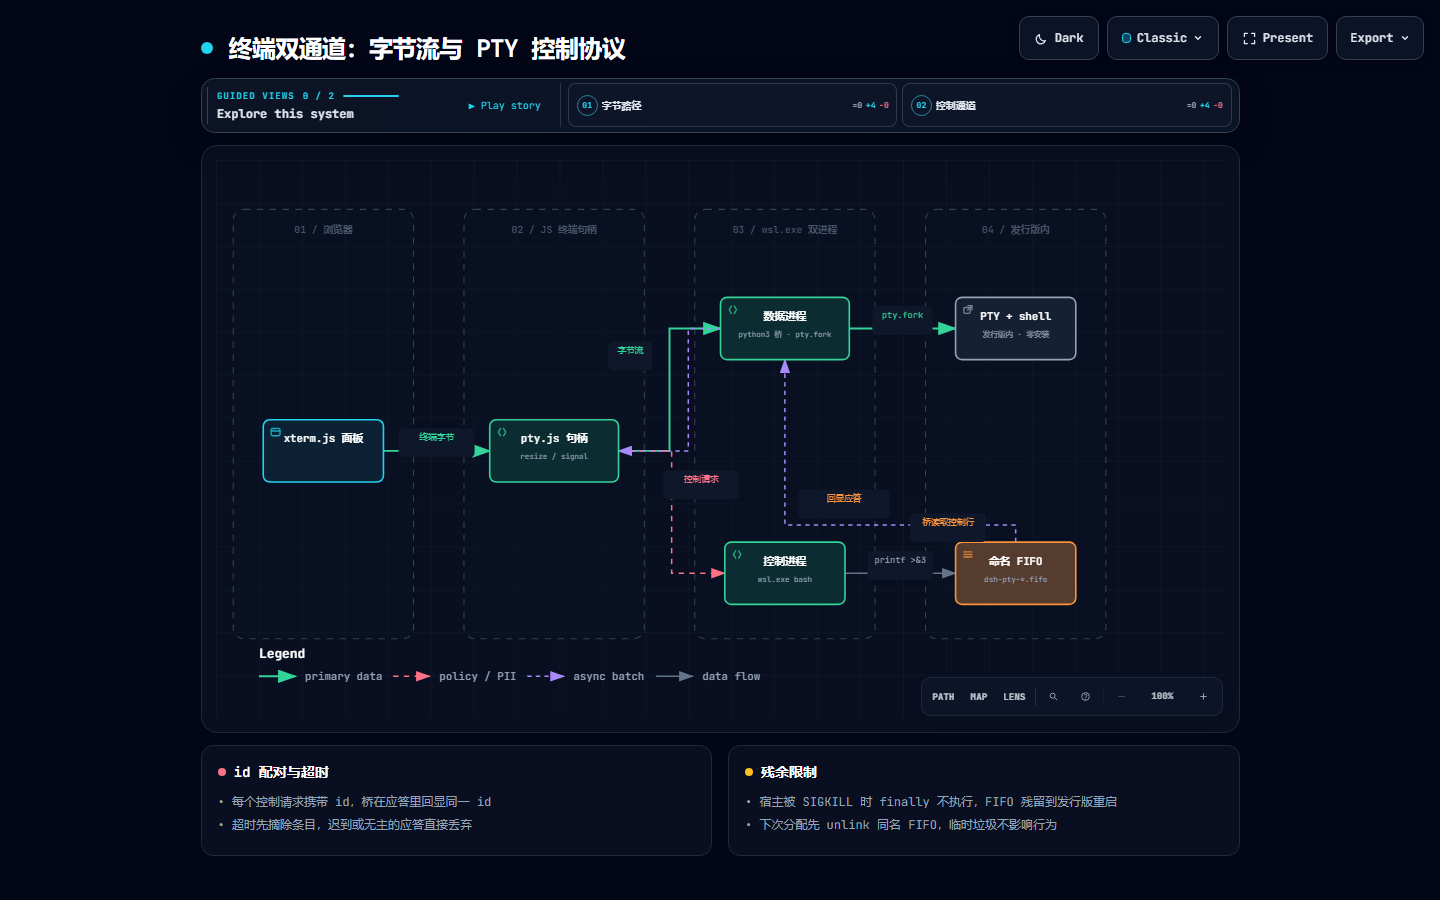
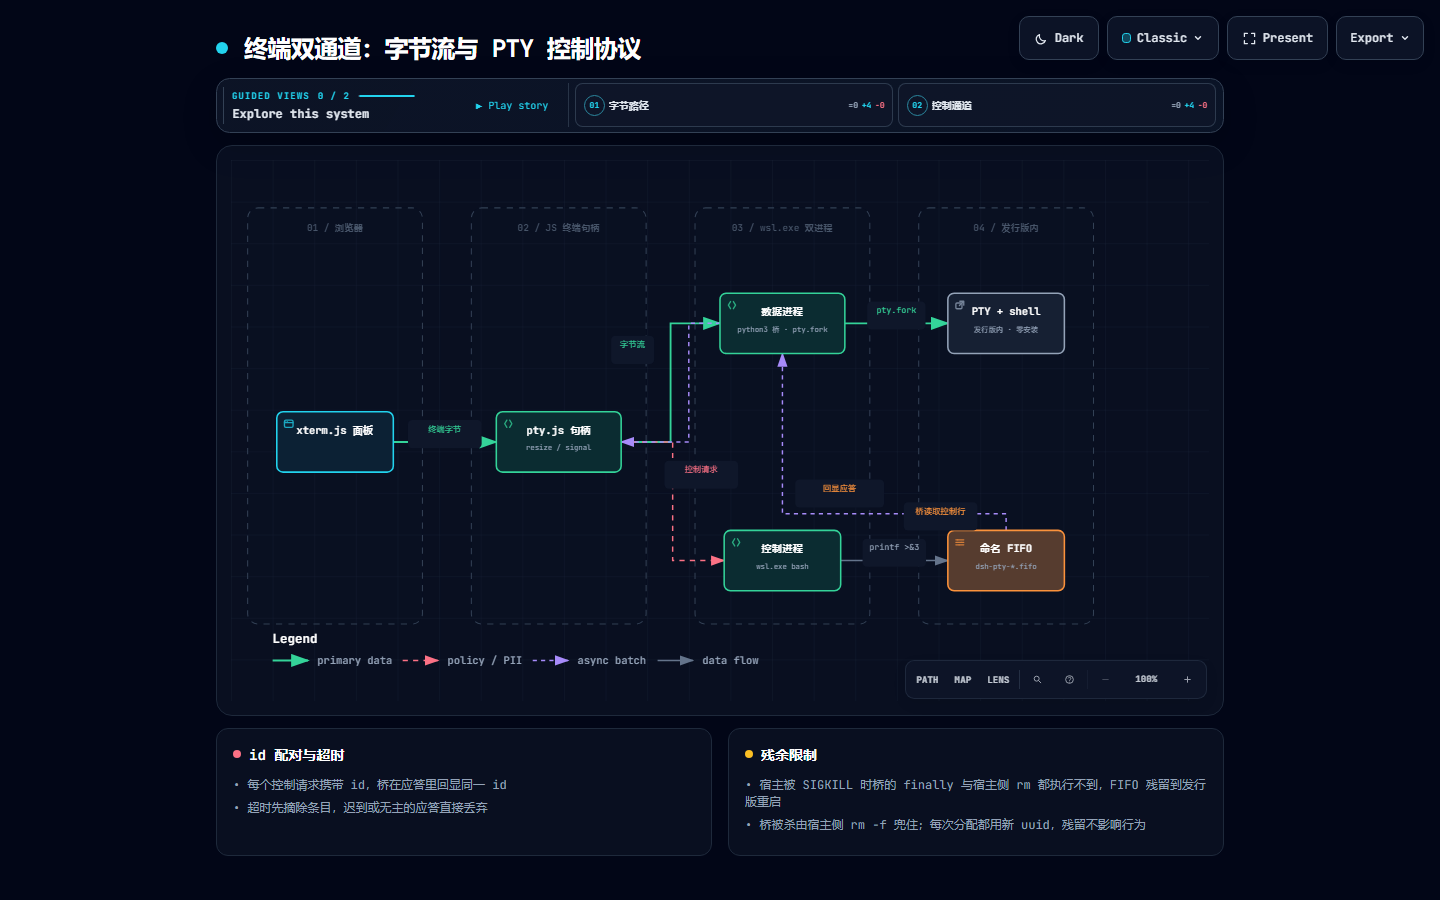
fix(diagrams): the fence gets its evidence row, and the page gets back under 1440x900
WHY: the architecture spec draws a security-group boundary labelled "WSL 发行版 · mount namespace
围栏" around the `distro` component, but neither that component nor anything else cited
lib/wsl/confinement.js — the file that implements the fence. The provenance pin only guards the
paths a spec CITES, so the one boundary in the picture that is a security boundary was also the one
carrying a claim with no evidence behind it. This adds the two paths that implement it
(confinement.js and the dsh-wsl-confine.sh helper) to that component.

THAT SURFACED TWO PRE-EXISTING DEFECTS, both measured rather than assumed:

1. The page has overflowed 1440x900 by 19px since e287d48. Bisected by measuring every delivered
   version: c3dc01f (642,880 B) is contained at 900; e287d48 (643,533 B) and every commit after it,
   including both later re-pins, measure 919. The new citations are not the cause — the committed
   spec with them removed, and 8-, 9- and 10-path variants, all measure 919. e287d48's addition of
   the "验证口径" card is: removing that card restores 900, while reverting its other edit (the
   realm wording) leaves 919.
   Wording cannot repair it. Four rewrites (item 1 78→52 chars, item 2 106→86) all measured 919,
   because the cost is the card BLOCK rather than its text: an EMPTY second card already measures
   903, and merging the two cards into one measures 931 (the cards are laid out side by side).
[…]

diff --git a/docs/architecture.html b/docs/architecture.html
@@ -4841,7 +4841,7 @@
     </div>
 
     <script id="archify-guided-views-data" type="application/json">[{"id":"create-path","label":"创建接缝","focus":["client","host","registry","realm"],"note":"会话创建请求命名 WSL 预设，是唯一无竞态的绑定缝。"},{"id":"exec-path","label":"执行世界","focus":["realm","shell","sub","wsl","distro"],"note":"isolate realm 隔离 shell、fs 与 subprocess；宿主 provider 经 host-refs 捕获，只用于起 wsl.exe。"},{"id":"two-transports","label":"两种传输","focus":["fs","distro"],"note":"fs 走 9P UNC 且过围栏；命令执行走 wsl.exe。"}]</script>
-    <script id="archify-source-evidence-data" type="application/json">{"schemaVersion":1,"verified":true,"repository":{"url":"https://github.com/zcluo/dsh-wsl-desktop","revision":"aa3ef7e1a3749caf0806df836d7dc59c3afd3301","shortRevision":"aa3ef7e"},"referenceCount":8,"nodes":{"client":[{"path":"lib/client.js","href":"https://github.com/zcluo/dsh-wsl-desktop/blob/aa3ef7e1a3749caf0806df836d7dc59c3afd3301/lib/client.js"}],"host":[{"path":"lib/index.js","href":"https://github.com/zcluo/dsh-wsl-desktop/blob/aa3ef7e1a3749caf0806df836d7dc59c3afd3301/lib/index.js"}],"admission":[{"path":"lib/http-admission.js","href":"https://github.com/zcluo/dsh-wsl-desktop/blob/aa3ef7e1a3749caf0806df836d7dc59c3afd3301/lib/http-admission.js"}],"realm":[{"path":"lib/wsl/preset.js","href":"https://github.com/zcluo/dsh-wsl-desktop/blob/aa3ef7e1a3749caf0806df836d7dc59c3afd3301/lib/wsl/preset.js"}],"shell":[{"path":"lib/wsl/shell.js","href":"https://github.com/zcluo/dsh-wsl-desktop/blob/aa3ef7e1a3749caf0806df836d7dc59c3afd3301/lib/wsl/shell.js"}],"fs":[{"path":"lib/wsl/fs.js","href":"https://github.com/zcluo/dsh-wsl-desktop/blob/aa3ef7e1a3749caf0806df836d7dc59c3afd3301/lib/wsl/fs.js"},{"path":"lib/wsl/fence.js","href":"https://github.com/zcluo/dsh-wsl-desktop/blob/aa3ef7e1a3749caf0806df836d7dc59c3afd3301/lib/wsl/fence.js"}],"sub":[{"path":"lib/wsl/subprocess.js","href":"https://github.com/zcluo/dsh-wsl-desktop/blob/aa3ef7e1a3749caf0806df836d7dc59c3afd3301/lib/wsl/subprocess.js"}]}}</script>
+    <script id="archify-source-evidence-data" type="application/json">{"schemaVersion":1,"verified":true,"repository":{"url":"https://github.com/zcluo/dsh-wsl-desktop","revision":"aa3ef7e1a3749caf0806df836d7dc59c3afd3301","shortRevision":"aa3ef7e"},"referenceCount":10,"nodes":{"client":[{"path":"lib/client.js","href":"https://github.com/zcluo/dsh-wsl-desktop/blob/aa3ef7e1a3749caf0806df836d7dc59c3afd3301/lib/client.js"}],"host":[{"path":"lib/index.js","href":"https://github.com/zcluo/dsh-wsl-desktop/blob/aa3ef7e1a3749caf0806df836d7dc59c3afd3301/lib/index.js"}],"admission":[{"path":"lib/http-admission.js","href":"https://github.com/zcluo/dsh-wsl-desktop/blob/aa3ef7e1a3749caf0806df836d7dc59c3afd3301/lib/http-admission.js"}],"realm":[{"path":"lib/wsl/preset.js","href":"https://github.com/zcluo/dsh-wsl-desktop/blob/aa3ef7e1a3749caf0806df836d7dc59c3afd3301/lib/wsl/preset.js"}],"shell":[{"path":"lib/wsl/shell.js","href":"https://github.com/zcluo/dsh-wsl-desktop/blob/aa3ef7e1a3749caf0806df836d7dc59c3afd3301/lib/wsl/shell.js"}],"fs":[{"path":"lib/wsl/fs.js","href":"https://github.com/zcluo/dsh-wsl-desktop/blob/aa3ef7e1a3749caf0806df836d7dc59c3afd3301/lib/wsl/fs.js"},{"path":"lib/wsl/fence.js","href":"https://github.com/zcluo/dsh-wsl-desktop/blob/aa3ef7e1a3749caf0806df836d7dc59c3afd3301/lib/wsl/fence.js"}],"sub":[{"path":"lib/wsl/subprocess.js","href":"https://github.com/zcluo/dsh-wsl-desktop/blob/aa3ef7e1a3749caf0806df836d7dc59c3afd3301/lib/wsl/subprocess.js"}],"distro":[{"path":"lib/wsl/confinement.js","href":"https://github.com/zcluo/dsh-wsl-desktop/blob/aa3ef7e1a3749caf0806df836d7dc59c3afd3301/lib/wsl/confinement.js"},{"path":"lib/wsl/dsh-wsl-confine.sh","href":"https://github.com/zcluo/dsh-wsl-desktop/blob/aa3ef7e1a3749caf0806df836d7dc59c3afd3301/lib/wsl/dsh-wsl-confine.sh"}]}}</script>
     <div class="guided-views no-print" id="guided-views" hidden aria-label="Guided diagram views">
       <button id="guided-view-prev" type="button" aria-label="Previous guided view" title="Previous guided view ([)">&#8592;</button>
       <div class="guided-view-copy">
@@ -5310,17 +5310,6 @@
         <ul>
           <li>&bull; preset 在会话创建请求里命名，创建时组合</li>
           <li>&bull; isolate realm 隔离 shell · fs · subprocess；宿主 provider 经 host-refs 捕获，只用于起 wsl.exe</li>
-        </ul>
-      </div>
-
-      <div class="card">
-        <div class="card-header">
-          <div class="card-dot violet"></div>
-          <h3>验证口径</h3>
-        </div>
-        <ul>
-          <li>&bull; sources 是证据行，钉在 meta.repository.revision 这个提交上：被引用文件一改，就要重钉到包含该改动的提交，否则链接指向旧代码</li>
-          <li>&bull; 重新校验：archify validate &lt;type&gt; &lt;spec&gt; --quality showcase --json；本图带 source evidence，还要加 --repo-root .，另外四张不用</li>
         </ul>
       </div>
     </div>

diff --git a/docs/diagrams.md b/docs/diagrams.md
@@ -13,6 +13,7 @@
 ## 源与再生成
 
 - 源 spec：[`diagrams-src/*.json`](diagrams-src)——图与文案的唯一事实来源。
+- **`sources` 是证据行，钉在 `meta.repository.revision` 这个提交上**：被引用文件一改（**只改注释也算**），就要重钉到包含该改动的提交并重新交付，否则页面上的链接指向旧代码。`scripts/verify-diagrams.mjs` 按这条逐条校验；它只保证"变了会被看见"，图仍然成不成立要人重新读一遍。
 - 修改 spec 后用 Archify 重新校验与交付：
 
   ```bash
